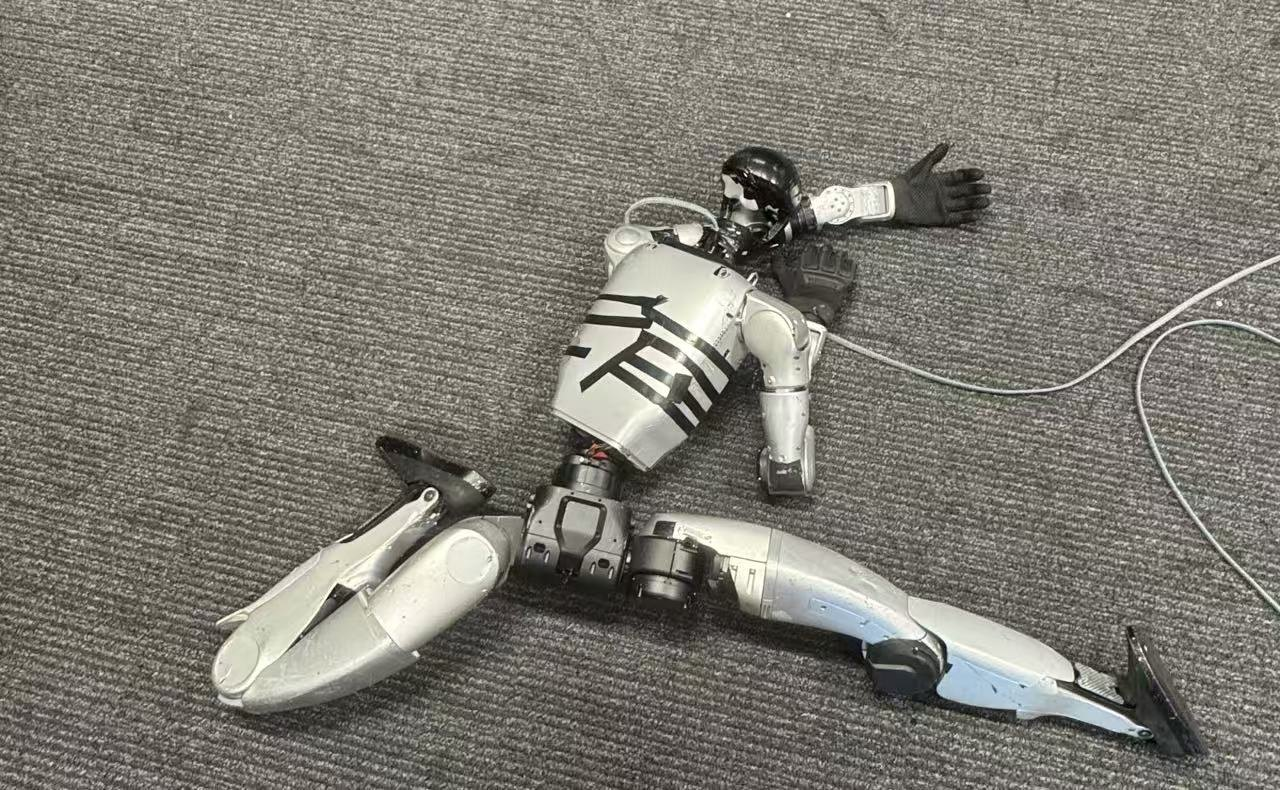
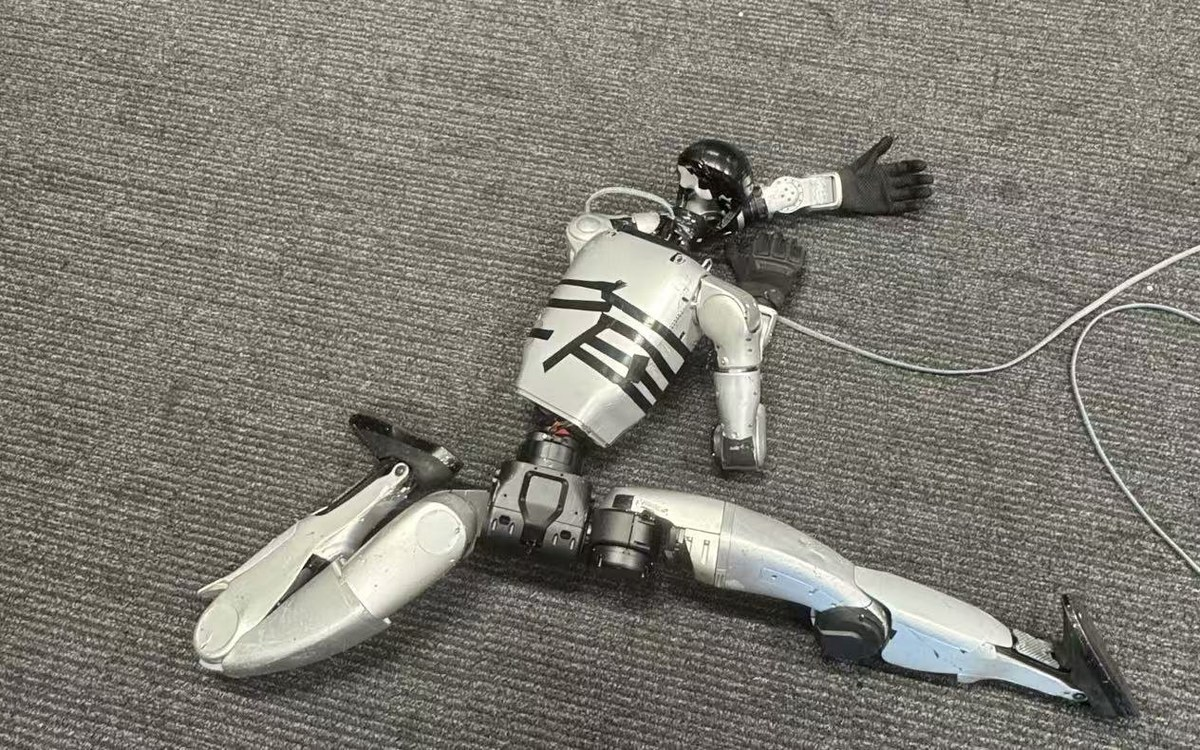
Refine project covers and art page

diff --git a/_pages/art.md b/_pages/art.md
@@ -9,11 +9,13 @@ nav_order: 2
 
 <style>
   .art-intro {
-    max-width: 720px;
-    margin: 0 auto 1.75rem;
+    max-width: 760px;
+    margin: 0 auto 1.45rem;
     color: var(--global-text-color-light);
-    font-size: 0.98rem;
+    font-family: "Roboto Slab", Georgia, serif;
+    font-size: 1rem;
     line-height: 1.7;
+    text-align: center;
   }
 
   .art-filters {
@@ -21,7 +23,7 @@ nav_order: 2
     flex-wrap: wrap;
     justify-content: center;
     gap: 0.45rem;
-    margin: 0 0 1.35rem;
+    margin: 0 0 1.1rem;
   }
 
   .art-filter {
@@ -55,10 +57,18 @@ nav_order: 2
     flex-wrap: wrap;
     align-items: center;
     justify-content: center;
-    gap: clamp(0.45rem, 1.8vw, 1.05rem);
-    max-width: 1080px;
-    margin: 0 auto;
-    padding: clamp(0.6rem, 2vw, 1.2rem) 0 clamp(1rem, 3vw, 2rem);
+    gap: clamp(0.42rem, 1.6vw, 0.95rem);
+    width: min(1120px, calc(100vw - 2rem));
+    margin: 0.4rem calc(50% - min(560px, calc(50vw - 1rem))) 0;
+    padding: clamp(1.2rem, 3vw, 2.2rem) clamp(0.6rem, 2vw, 1.4rem) clamp(1.5rem, 3.5vw, 2.5rem);
+    overflow: hidden;
+    background:
+      linear-gradient(90deg, rgba(28, 36, 48, 0.055) 1px, transparent 1px),
+      linear-gradient(0deg, rgba(28, 36, 48, 0.045) 1px, transparent 1px),
+      linear-gradient(135deg, #f7f8fa 0%, #eef3f1 46%, #f3f1f5 100%);
+    background-size: 34px 34px, 34px 34px, auto;
+    border-top: 1px solid rgba(28, 36, 48, 0.08);
+    border-bottom: 1px solid rgba(28, 36, 48, 0.08);
   }
 
   .art-piece {
@@ -68,14 +78,12 @@ nav_order: 2
     --drift: 12px;
     width: clamp(74px, var(--size), 230px);
     aspect-ratio: 1;
-    border: 0;
+    border: 1px solid rgba(34, 39, 46, 0.08);
     border-radius: 7px;
-    background:
-      linear-gradient(135deg, rgba(255, 255, 255, 0.72), rgba(245, 247, 250, 0.45)),
-      var(--global-bg-color);
-    box-shadow: 0 10px 26px rgba(0, 0, 0, 0.08);
+    background: rgba(255, 255, 255, 0.72);
+    box-shadow: 0 10px 24px rgba(31, 36, 43, 0.1);
     cursor: zoom-in;
-    padding: 0.42rem;
+    padding: 0.46rem;
     transform: rotate(var(--rotate));
     animation: art-drift 6.5s ease-in-out infinite;
     animation-delay: var(--delay);
@@ -92,7 +100,7 @@ nav_order: 2
   .art-piece:hover,
   .art-piece:focus-visible {
     z-index: 3;
-    box-shadow: 0 16px 42px rgba(0, 0, 0, 0.16);
+    box-shadow: 0 18px 42px rgba(31, 36, 43, 0.18);
     outline: 2px solid var(--global-theme-color);
     outline-offset: 3px;
     transform: rotate(0deg) translateY(-4px) scale(1.08);
@@ -109,14 +117,39 @@ nav_order: 2
 
   .art-piece[data-kind="painting"] {
     --size: 172px;
-    aspect-ratio: 4 / 5;
-    padding: 0.35rem;
-    background: #f8f6f1;
+    aspect-ratio: auto;
+    border: 0;
+    padding: 0;
+    background: transparent;
+    box-shadow: none;
+  }
+
+  .art-piece[data-kind="painting"] img {
+    width: 100%;
+    height: auto;
+    border-radius: 5px;
+    object-fit: cover;
+    box-shadow:
+      0 16px 30px rgba(31, 36, 43, 0.18),
+      0 0 0 1px rgba(31, 36, 43, 0.08);
   }
 
   .art-piece[data-kind="gif"] {
     --size: 98px;
-    background: #f7fbfb;
+    background: rgba(246, 252, 252, 0.86);
+  }
+
+  html[data-theme="dark"] .art-cloud {
+    background:
+      linear-gradient(90deg, rgba(240, 244, 248, 0.055) 1px, transparent 1px),
+      linear-gradient(0deg, rgba(240, 244, 248, 0.045) 1px, transparent 1px),
+      linear-gradient(135deg, #171a1f 0%, #1b2220 48%, #211f25 100%);
+    border-color: rgba(240, 244, 248, 0.08);
+  }
+
+  html[data-theme="dark"] .art-piece {
+    border-color: rgba(240, 244, 248, 0.12);
+    background: rgba(244, 246, 248, 0.88);
   }
 
   .art-piece:nth-of-type(5n) {
@@ -207,7 +240,7 @@ nav_order: 2
 </style>
 
 <p class="art-intro">
-  A small corner for drawings, stickers, and visual experiments. I keep it separate from the research pages so the portfolio stays academic, while still leaving room for the visual side of how I think and make things.
+  Apart from being a human, I draw, make stickers, and occasionally let tiny visual thoughts escape. This page is a loose sketch wall, not a formal gallery.
 </p>
 
 <div class="art-filters" aria-label="Artwork filters">

diff --git a/_pages/about.md b/_pages/about.md
@@ -9,11 +9,13 @@ profile:
   image: prof_pic.jpg
   image_circular: false # crops the image to make it circular
   more_info: >
-    <p>HKUST Computer Engineering</p>
-    <p>Email: kluoaf@connect.ust.hk</p>
+    <div class="profile-meta">
+      <p class="profile-meta__school">HKUST Computer Engineering</p>
+      <p><a href="mailto:kluoaf@connect.ust.hk">kluoaf@connect.ust.hk</a></p>
+    </div>
 
 selected_papers: false # includes a list of papers marked as "selected={true}"
-social: true # includes social icons at the bottom of the page
+social: false # includes social icons at the bottom of the page
 
 announcements:
   enabled: false # includes a list of news items
@@ -25,6 +27,39 @@ latest_posts:
   scrollable: true # adds a vertical scroll bar if there are more than 3 new posts items
   limit: 3 # leave blank to include all the blog posts
 ---
+
+<style>
+  .profile .more-info {
+    margin-top: 0.85rem;
+  }
+
+  .profile-meta {
+    font-family: "Roboto Slab", Georgia, serif;
+    font-size: 0.86rem;
+    line-height: 1.45;
+    color: var(--global-text-color-light);
+  }
+
+  .profile-meta p {
+    margin: 0.08rem 0;
+  }
+
+  .profile-meta__school {
+    color: var(--global-text-color);
+    font-weight: 400;
+  }
+
+  .profile-meta a {
+    color: var(--global-text-color-light);
+    text-decoration: none;
+  }
+
+  .profile-meta a:hover,
+  .profile-meta a:focus-visible {
+    color: var(--global-theme-color);
+    text-decoration: underline;
+  }
+</style>
 
 Hi, I am Koukou Luo, a Computer Engineering undergraduate at the Hong Kong University of Science and Technology. I work across robotics, perception, mechanical systems, embedded systems, and advanced manufacturing.
 

diff --git a/_projects/3_project.md b/_projects/3_project.md
@@ -15,6 +15,11 @@ category: projects
 
 Led project management and mechanical design for an autonomous drone platform, working closely with algorithm and embedded systems teams to ensure the mechanical system supported sensing and control requirements.
 
+Open-source documentation:
+
+- [RoboMaster open-source article 1](https://bbs.robomaster.com/article/54087?uid=88619)
+- [RoboMaster open-source article 2](https://bbs.robomaster.com/article/54086?uid=88619)
+
 Key work included:
 
 - Designed and optimized a composite-material drone protection system to improve crash survival rate.

diff --git a/_pages/projects.md b/_pages/projects.md
@@ -8,6 +8,28 @@ nav_order: 1
 horizontal: false
 ---
 
+<style>
+  .projects .card figure {
+    aspect-ratio: 16 / 10;
+    margin: 0;
+    overflow: hidden;
+    background: #f3f5f6;
+  }
+
+  .projects .card picture {
+    display: block;
+    width: 100%;
+    height: 100%;
+  }
+
+  .projects .card-img-top {
+    width: 100%;
+    height: 100% !important;
+    object-fit: cover;
+    display: block;
+  }
+</style>
+
 <!-- pages/projects.md -->
 <div class="projects">
 {% if site.enable_project_categories and page.display_categories %}

diff --git a/_pages/cv.md b/_pages/cv.md
@@ -3,6 +3,7 @@ layout: cv
 permalink: /cv/
 title: CV
 nav: false
+published: false
 nav_order: 5
 cv_pdf: /assets/pdf/example_pdf.pdf # you can also use external links here
 cv_format: rendercv # options: rendercv, jsonresume
